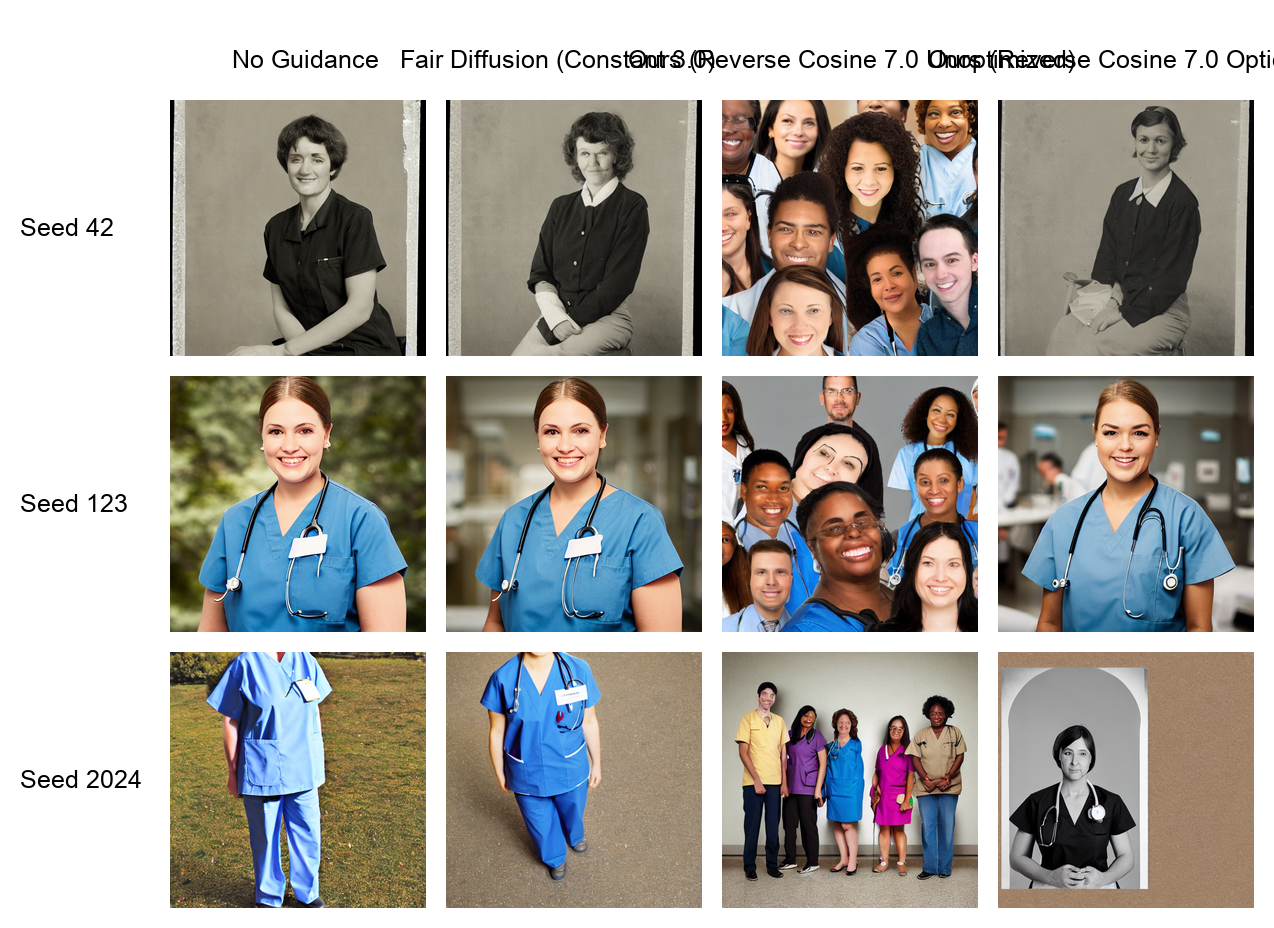
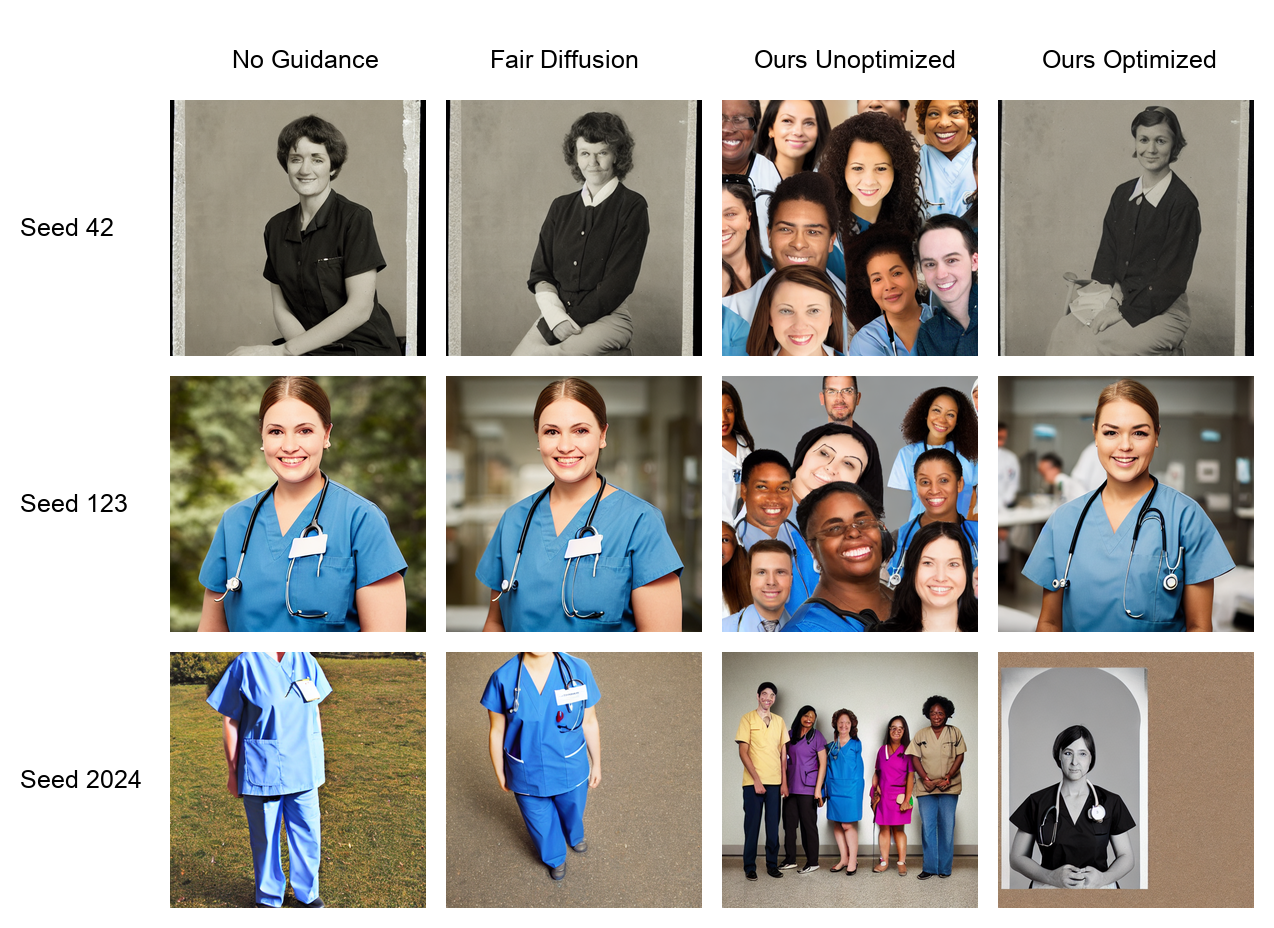
chore: shorten grid column titles to prevent overlap

Changed region(s): [[0.3061, 0.0312, 1.0, 0.0938]]

diff --git a/plot_grid.py b/plot_grid.py
@@ -7,9 +7,9 @@ def create_image_grid(prompt_name, display_name):
     # Define columns
     columns = [
         {"title": "No Guidance", "path_template": "results_option1/{prompt}_baseline_none_seed_{seed}.png"},
-        {"title": "Fair Diffusion (Constant 3.0)", "path_template": "results_option1/{prompt}_baseline_constant_3.0_seed_{seed}.png"},
-        {"title": "Ours (Reverse Cosine 7.0 Unoptimized)", "path_template": "results_reverse/{prompt}_reverse_cosine_7.0_seed_{seed}.png"},
-        {"title": "Ours (Reverse Cosine 7.0 Option1)", "path_template": "results_option1/{prompt}_reverse_cosine_7.0_seed_{seed}.png"}
+        {"title": "Fair Diffusion", "path_template": "results_option1/{prompt}_baseline_constant_3.0_seed_{seed}.png"},
+        {"title": "Ours Unoptimized", "path_template": "results_reverse/{prompt}_reverse_cosine_7.0_seed_{seed}.png"},
+        {"title": "Ours Optimized", "path_template": "results_option1/{prompt}_reverse_cosine_7.0_seed_{seed}.png"}
     ]
     
     # Load first image to get dimensions